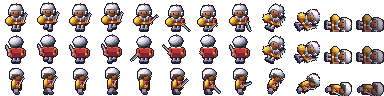
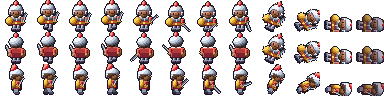
Видимая и слышимая стража: плюмажи и яркие табарды, значок щита, «Часовой», факелы ночью, цикл дня и ночи, звуки шагов/переклички/окрика/тревоги, стража на мини-карте

diff --git a/tools/gen/units.ts b/tools/gen/units.ts
@@ -25,6 +25,8 @@ export interface HSpec {
   cape?: Ramp;
   head?: "helmet" | "hat" | "hood" | "horns" | "feathers" | "darkhelm" | "witchhat" | "cap" | "none";
   headRamp?: Ramp;
+  /** Султан на шлеме (стража): яркий цвет города, виден издалека. */
+  plume?: Ramp;
   weapon?: "sword" | "axe" | "staff" | "bow" | "dagger" | "flamesword" | "skullstaff" | "claws" | "none";
   orb?: Ramp;
   shield?: Ramp;
@@ -318,7 +320,11 @@ export function drawHumanoid(spec: HSpec, view: View, pose: Pose, k = 1): PC {
         c.rect(L(hcx - headR + 1), L(eyeY - 1.2), L(headR * 2 - 1), L(1), hr[1]);
         if (spec.head === "darkhelm") c.poly([[L(hcx + 1), L(hcy - 4)], [L(hcx + 4), L(hcy - 10)], [L(hcx + 3.5), L(hcy - 3)]], P.bone[2]);
       } else if (spec.head === "darkhelm") for (const s of [-1, 1]) c.poly([[L(hcx + s * 4), L(hcy - 4)], [L(hcx + s * 8), L(hcy - 9)], [L(hcx + s * 5.5), L(hcy - 3)]], P.bone[2]);
-      if (spec.head === "helmet" && view !== "side") c.rect(L(hcx - 0.5), L(hcy - headR - 1.5), L(1), L(2), P.cloth.red[2]);
+      if (spec.head === "helmet" && spec.plume) {
+        const sx = view === "side" ? -2.2 : 0;
+        c.shadedEllipse(L(hcx + sx), L(hcy - headR - 1.6), L(view === "side" ? 2.6 : 1.7), L(3), spec.plume);
+        if (view === "side") c.shadedEllipse(L(hcx - 4), L(hcy - headR + 0.4), L(2), L(1.4), spec.plume);
+      } else if (spec.head === "helmet" && view !== "side") c.rect(L(hcx - 0.5), L(hcy - headR - 1.5), L(1), L(2), P.cloth.red[2]);
       break;
     }
     case "hat":
@@ -551,17 +557,17 @@ const SPECS: Record<string, HSpec> = {
   },
   /** Стражник Эмберхолла: латы, алый табард с золотом, шлем, меч и щит в цветах города. */
   guard: {
-    skin: P.skin, hair: P.hair.brown, hairStyle: "short", torso: ramp_("#5a1018", "#8a1c24", "#b8302e", "#e05a40"), legs: P.steel, boots: P.darkSteel, belt: P.gold,
-    head: "helmet", headRamp: P.steel, weapon: "sword", shield: ramp_("#6a4210", "#a8681c", "#e0a630", "#ffd864"), armorPlates: P.steel, cape: P.cloth.red, beard: P.hair.brown,
+    skin: P.skin, hair: P.hair.brown, hairStyle: "short", torso: ramp_("#7a1620", "#b02a30", "#e0463c", "#ff7a58"), legs: P.steel, boots: P.darkSteel, belt: P.gold,
+    head: "helmet", headRamp: P.steel, plume: ramp_("#8a1020", "#c82030", "#f04a48", "#ff9a88"), weapon: "sword", shield: ramp_("#6a4210", "#a8681c", "#e0a630", "#ffd864"), armorPlates: P.steel, cape: P.cloth.red, beard: P.hair.brown,
   },
   /** Стражи малых городов: тот же силуэт, цвета оазиса (песочный табард, бирюза) и долины (синий табард, мех). */
   guard_desert: {
-    skin: P.skin, hair: P.hair.black, hairStyle: "short", torso: ramp_("#7a4a14", "#b07424", "#d89c3c", "#f4c864"), legs: P.cloth.brown, boots: P.leather, belt: P.cloth.green,
-    head: "helmet", headRamp: P.gold, weapon: "sword", shield: ramp_("#1a4a48", "#2a7a74", "#46a89c", "#80d4c4"), armorPlates: P.gold, cape: ramp_("#1a4a48", "#2a7a74", "#46a89c", "#80d4c4"), beard: P.hair.black,
+    skin: P.skin, hair: P.hair.black, hairStyle: "short", torso: ramp_("#9a5c10", "#d89028", "#ffbe48", "#ffe088"), legs: P.cloth.brown, boots: P.leather, belt: P.cloth.green,
+    head: "helmet", headRamp: P.gold, plume: ramp_("#1a5a58", "#2a9a90", "#50d0c0", "#a0f0e0"), weapon: "sword", shield: ramp_("#1a4a48", "#2a7a74", "#46a89c", "#80d4c4"), armorPlates: P.gold, cape: ramp_("#1a4a48", "#2a7a74", "#46a89c", "#80d4c4"), beard: P.hair.black,
   },
   guard_snow: {
-    skin: P.skinPale, hair: P.hair.white, hairStyle: "short", torso: ramp_("#1a2a4a", "#2c4a7e", "#4a74b4", "#86aee0"), legs: P.cloth.blue, boots: P.leather, belt: P.leather,
-    head: "helmet", headRamp: P.steel, weapon: "sword", shield: P.wood, armorPlates: P.steel, cape: P.cloth.white, beard: P.hair.white,
+    skin: P.skinPale, hair: P.hair.white, hairStyle: "short", torso: ramp_("#1c3a78", "#3a68c8", "#5a94f0", "#a4cbff"), legs: P.cloth.blue, boots: P.leather, belt: P.leather,
+    head: "helmet", headRamp: P.steel, plume: ramp_("#a0b4d0", "#d0def0", "#f0f6ff", "#ffffff"), weapon: "sword", shield: P.wood, armorPlates: P.steel, cape: P.cloth.white, beard: P.hair.white,
   },
   citizen_desert: {
     skin: P.skin, hair: P.hair.black, hairStyle: "short", torso: P.cloth.rag, legs: P.cloth.rag, boots: P.leather, belt: P.cloth.red,

diff --git a/server/src/game/townfolk.ts b/server/src/game/townfolk.ts
@@ -66,6 +66,9 @@ interface Folk {
   foe: Mob | null;
   attackAt: number;
   sayAt: number;
+  /** Часовой у ворот: игрок уже рядом / когда можно окликнуть снова. */
+  nearP: boolean;
+  haltAt: number;
   syncAt: number;
 }
 
@@ -73,6 +76,9 @@ export class Townfolk {
   readonly folk: Folk[] = [];
   private scanAt = 0;
   private n = 0;
+  /** Таймеры города: перекличка на стенах и тревога (общая, чтобы не трубить на каждого моба). */
+  private callAt = new Map<Site, number>();
+  private alarmAt = new Map<Site, number>();
 
   constructor(private w: World) {
     for (const site of SITES) {
@@ -102,14 +108,14 @@ export class Townfolk {
   private add(site: Site, guard: boolean, x: number, y: number, post: Folk["post"], route: Folk["route"], who?: { name: string; sprite: string }): Folk {
     const u = new Unit();
     u.kind = guard ? UnitKind.Guard : UnitKind.Citizen;
-    u.name = guard ? site.guard.name : who!.name;
+    u.name = guard ? (post ? "Часовой" : site.guard.name) : who!.name;
     u.sprite = guard ? site.guard.sprite : who!.sprite;
     u.level = guard ? G.level : 1;
     u.hp = u.maxHp = 1;
     u.x = x;
     u.y = y;
     u.dir = post?.dir ?? Dir.Down;
-    const f: Folk = { id: `${guard ? "g" : "c"}${++this.n}`, site, unit: u, guard, x, y, dir: u.dir, anim: Anim.Idle, nav: new Nav(), post, route, idx: 0, waitUntil: 0, foe: null, attackAt: 0, sayAt: 0, syncAt: 0 };
+    const f: Folk = { id: `${guard ? "g" : "c"}${++this.n}`, site, unit: u, guard, x, y, dir: u.dir, anim: Anim.Idle, nav: new Nav(), post, route, idx: 0, waitUntil: 0, foe: null, attackAt: 0, sayAt: 0, nearP: false, haltAt: 0, syncAt: 0 };
     this.folk.push(f);
     this.w.state.mobs.set(f.id, u);
     return f;
@@ -125,6 +131,7 @@ export class Townfolk {
     if (t >= this.scanAt) {
       this.scanAt = t + 400;
       this.assignFoes();
+      this.voices(t);
     }
     for (const f of this.folk) {
       if (f.guard) this.updateGuard(f, dt);
@@ -158,10 +165,43 @@ export class Townfolk {
       if (!best) continue;
       best.foe = m;
       best.nav.reset();
-      if (this.w.time >= best.sayAt) {
+      if (this.w.time >= (this.alarmAt.get(site) ?? 0)) {
+        // тревога на весь город: колокол и рог у тех, кто рядом
+        this.alarmAt.set(site, this.w.time + 30000);
+        best.sayAt = this.w.time + 20000;
+        this.w.emit({ t: "say", id: best.id, text: "Тревога!", snd: "alarm" });
+      } else if (this.w.time >= best.sayAt) {
         best.sayAt = this.w.time + 20000;
         this.w.emit({ t: "say", id: best.id, text: best.site.guard.lines[Math.floor(Math.random() * best.site.guard.lines.length)] });
       }
+    }
+  }
+
+  /** Есть ли живой игрок в радиусе px от точки. */
+  private playerNear(x: number, y: number, px: number): boolean {
+    for (const p of this.w.players.values()) if (p.unit.anim !== Anim.Dead && Math.hypot(p.unit.x - x, p.unit.y - y) < px) return true;
+    return false;
+  }
+
+  /** Голоса стражи: окрик у ворот и перекличка на стенах (только если рядом есть игрок — трафик минимален). */
+  private voices(t: number) {
+    for (const f of this.folk) {
+      if (!f.guard || !f.post) continue;
+      const near = this.playerNear(f.x, f.y, 150);
+      if (near && !f.nearP && t >= f.haltAt) {
+        f.haltAt = t + 25000;
+        this.w.emit({ t: "say", id: f.id, text: "Стой, кто идёт!", snd: "halt" });
+      }
+      f.nearP = near;
+    }
+    for (const site of SITES) {
+      if (t < (this.callAt.get(site) ?? 0)) continue;
+      this.callAt.set(site, t + rnd(22000, 42000));
+      const posts = this.folk.filter((f) => f.site === site && f.guard && f.post && !f.foe);
+      if (!posts.length) continue;
+      const f = posts[Math.floor(Math.random() * posts.length)];
+      if (!this.playerNear(f.x, f.y, 700)) continue;
+      this.w.emit({ t: "say", id: f.id, text: Math.random() < 0.7 ? "Всё спокойно!" : "На посту всё тихо!", snd: "call" });
     }
   }
 

diff --git a/client/src/game/UnitView.ts b/client/src/game/UnitView.ts
@@ -5,6 +5,7 @@ import { RARITY_COLORS } from "../../../shared/items";
 import { net, type UnitState } from "../net";
 import { rankById } from "../../../shared/arena";
 import { DEPTH } from "./terrain";
+import { nightLevel } from "../../../shared/daynight";
 import { mountSprite } from "../../../shared/mounts";
 
 export const FONT = '"Rubik", "Trebuchet MS", sans-serif';
@@ -23,6 +24,10 @@ export class UnitView {
   titleText: Phaser.GameObjects.Text;
   frameGfx: Phaser.GameObjects.Graphics;
   mountSpr?: Phaser.GameObjects.Sprite;
+  /** Факел стражника ночью: пламя и мерцающее свечение. */
+  private torchGfx?: Phaser.GameObjects.Graphics;
+  private torchGlow?: Phaser.GameObjects.Image;
+  stepAt = 0;
   private mountId = "";
   private lastTitle = "";
   private lastColor = "";
@@ -219,6 +224,8 @@ export class UnitView {
     const showName = !this.dead && this.label.visible;
     this.titleText.setVisible(showName && !!u.title).setPosition(Math.round(this.x), Math.round(top - 13));
     this.frameGfx.clear();
+    if (u.kind === UnitKind.Guard && showName) this.guardBadge(top);
+    this.torch(!this.dead && u.kind === UnitKind.Guard && nightLevel(Date.now()) > 0.35);
     if (u.elite && showName) {
       const w = this.label.width + 6, h = 11;
       const fx = Math.round(this.x - w / 2), fy = Math.round(top - 4 - h + 1);
@@ -280,6 +287,33 @@ export class UnitView {
     }
   }
 
+  /** Значок щита слева от имени: цвет города (красный, бирюзовый, синий) со стальной каймой. */
+  private guardBadge(top: number) {
+    const c = this.u.sprite === "guard_desert" ? 0x2fb0a2 : this.u.sprite === "guard_snow" ? 0x4a8ae8 : 0xd02a34;
+    const bx = Math.round(this.x - this.label.width / 2 - 9), by = Math.round(top - 14);
+    const g = this.frameGfx;
+    g.fillStyle(0x120a10, 0.9).fillRect(bx - 1, by - 1, 9, 11).fillRect(bx, by + 9, 7, 1).fillRect(bx + 1, by + 10, 5, 1);
+    g.fillStyle(0xaab4c4, 1).fillRect(bx, by, 7, 8).fillRect(bx + 1, by + 8, 5, 1).fillRect(bx + 2, by + 9, 3, 1);
+    g.fillStyle(c, 1).fillRect(bx + 1, by + 1, 5, 7).fillRect(bx + 2, by + 8, 3, 1);
+    g.fillStyle(0xffe08a, 1).fillRect(bx + 3, by + 2, 1, 5).fillRect(bx + 2, by + 3, 3, 1);
+  }
+
+  /** Факел в руке: ночью с мерцающим светом (ADD), днём прячется. */
+  private torch(on: boolean) {
+    if (!on) { this.torchGfx?.setVisible(false); this.torchGlow?.setVisible(false); return; }
+    this.torchGfx ??= this.scene.add.graphics();
+    this.torchGlow ??= this.scene.add.image(0, 0, "fx_glow").setBlendMode(Phaser.BlendModes.ADD).setTint(0xff9a3a);
+    const dx = this.u.dir === Dir.Left ? -8 : this.u.dir === Dir.Up ? -7 : 8;
+    const hx = Math.round(this.x + dx), hy = Math.round(this.y - 13);
+    const t = this.scene.time.now, fl = 0.75 + Math.sin(t / 70 + this.x) * 0.12 + Math.sin(t / 130) * 0.1 + Math.random() * 0.06;
+    const g = this.torchGfx;
+    g.setVisible(true).setDepth(this.y + 1).clear();
+    g.fillStyle(0x4a2a10, 1).fillRect(hx, hy - 1, 2, 6);
+    g.fillStyle(0xff7a1a, 1).fillRect(hx - 1, hy - 4, 4, 3);
+    g.fillStyle(0xffd860, 1).fillRect(hx, hy - 5 + (fl > 0.8 ? 0 : 1), 2, 3);
+    this.torchGlow.setVisible(true).setPosition(hx + 1, hy - 3).setDepth(DEPTH.top - 12).setScale(2.2 * fl).setAlpha(0.55 * fl);
+  }
+
   hitTest(wx: number, wy: number): number {
     if (this.dead) return Infinity;
     const r = this.frame > 32 ? 30 : 14;
@@ -299,5 +333,7 @@ export class UnitView {
     this.stun?.destroy();
     this.titleText.destroy();
     this.frameGfx.destroy();
+    this.torchGfx?.destroy();
+    this.torchGlow?.destroy();
   }
 }

diff --git a/client/src/game/sfx.ts b/client/src/game/sfx.ts
@@ -1,5 +1,5 @@
 /** Процедурные звуки на WebAudio (без файлов). AudioContext стартует по первому действию игрока. */
-export type SfxName = "hit" | "crit" | "fire" | "frost" | "arrow" | "heal" | "shield" | "poison" | "explosion" | "slam" | "arcane" | "holy" | "shadow";
+export type SfxName = "hit" | "crit" | "fire" | "frost" | "arrow" | "heal" | "shield" | "poison" | "explosion" | "slam" | "arcane" | "holy" | "shadow" | "step" | "clink" | "call" | "halt" | "bell" | "horn";
 
 let ctx: AudioContext | null = null;
 let master: GainNode | null = null;
@@ -89,6 +89,27 @@ function noise(dur: number, vol: number, f0: number, f1: number, type: BiquadFil
   s.stop(t + dur + 0.02);
 }
 
+/** Голосоподобный возглас: слоги пилы через формантный фильтр. */
+function voice(v: number, pitches: number[], syl: number, _n: number) {
+  const c = ctx!;
+  pitches.forEach((f, i) => {
+    const t = c.currentTime + i * syl * 1.15;
+    const o = c.createOscillator(), fl = c.createBiquadFilter(), g = c.createGain();
+    o.type = "sawtooth";
+    o.frequency.setValueAtTime(f, t);
+    o.frequency.linearRampToValueAtTime(f * (i % 2 ? 0.85 : 1.15), t + syl);
+    fl.type = "bandpass";
+    fl.frequency.value = i % 2 ? 700 : 1100;
+    fl.Q.value = 3;
+    g.gain.setValueAtTime(0.001, t);
+    g.gain.linearRampToValueAtTime(v * 1.4, t + 0.02);
+    g.gain.exponentialRampToValueAtTime(0.001, t + syl);
+    o.connect(fl).connect(g).connect(master!);
+    o.start(t);
+    o.stop(t + syl + 0.02);
+  });
+}
+
 /** gain 0..1 — громкость по расстоянию/важности. Одинаковые звуки чаще раза в 50 мс не играются. */
 export function play(name: SfxName, gain = 1) {
   if (muted || volume <= 0 || gain <= 0.02 || !ctx || ctx.state !== "running" || !master) return;
@@ -109,6 +130,12 @@ export function play(name: SfxName, gain = 1) {
     case "slam": noise(0.4, v * 1.3, 600, 50, "lowpass"); tone("sine", 70, 25, 0.45, v * 1.2); break;
     case "arcane": tone("sine", 400, 1200, 0.18, v * 0.5); tone("triangle", 800, 1800, 0.14, v * 0.3, 0.04); break;
     case "holy": tone("sine", 880, 880, 0.2, v * 0.4); tone("sine", 1320, 1320, 0.25, v * 0.3, 0.06); break;
+    case "step": noise(0.06, v * 0.7, 700, 180, "lowpass"); tone("sine", 120 + Math.random() * 30, 60, 0.05, v * 0.4); break;
+    case "clink": tone("triangle", 2600 + Math.random() * 500, 2000, 0.07, v * 0.25); tone("square", 3900, 3000, 0.04, v * 0.12, 0.02); noise(0.05, v * 0.3, 7000, 4000, "highpass"); break;
+    case "call": voice(v, [150, 190, 170], 0.14, 3); break;
+    case "halt": voice(v * 1.2, [180, 230, 200, 150], 0.12, 4); break;
+    case "bell": for (let i = 0; i < 4; i++) { tone("sine", 660, 640, 0.5, v * 0.7, i * 0.32); tone("sine", 1320, 1300, 0.35, v * 0.3, i * 0.32); tone("triangle", 1980, 1950, 0.2, v * 0.12, i * 0.32); } break;
+    case "horn": tone("sawtooth", 196, 190, 0.7, v * 0.5); tone("sawtooth", 294, 290, 0.7, v * 0.35, 0.02); tone("sawtooth", 196, 185, 0.5, v * 0.5, 0.85); tone("sawtooth", 294, 280, 0.5, v * 0.35, 0.87); break;
     case "shadow": tone("sawtooth", 300, 80, 0.2, v * 0.4); noise(0.18, v * 0.5, 1500, 200, "bandpass"); break;
   }
 }

diff --git a/client/src/game/GameScene.ts b/client/src/game/GameScene.ts
@@ -3,6 +3,7 @@ import { MERCHANT_RANGE, PICKUP_RANGE, PLAYER_RADIUS, PLAYER_SPEED, TILE } from 
 import { generateMap, moveWithCollision, terrainSpeedMul, zoneAtPx, ZONES, type WorldMap, Zone } from "../../../shared/map";
 import { ENV } from "../../../shared/biomes";
 import * as sfx from "./sfx";
+import { nightLevel } from "../../../shared/daynight";
 import { Anim, BUFF_STEALTH, BUFF_ROOT, BUFF_SLOW, BUFF_STUN, UnitKind, type LootBag } from "../../../shared/protocol";
 import { activeSkills, SKILLS } from "../../../shared/skills";
 import { RUMOR_NPCS } from "../../../shared/rumors";
@@ -577,7 +578,15 @@ export class GameScene extends Phaser.Scene {
       }
       me.update(dt, this.pos.x, this.pos.y);
     }
-    for (const [id, v] of this.units) if (id !== net.id) v.update(dt);
+    for (const [id, v] of this.units) {
+      if (id !== net.id) v.update(dt);
+      // шаги и звон доспехов идущей стражи рядом (до ~20 тайлов, громкость по расстоянию)
+      if (v.u.kind === UnitKind.Guard && v.u.anim === Anim.Walk && !v.dead && now >= v.stepAt) {
+        const k = 1 - Math.hypot(v.x - this.pos.x, v.y - this.pos.y) / 640;
+        v.stepAt = now + 330 + Math.random() * 60;
+        if (k > 0.03) { sfx.play("step", k * 0.8); if (Math.random() < 0.28) sfx.play("clink", k * 0.7); }
+      }
+    }
     this.scenes?.update(this.pos.x, this.pos.y);
     if (this.targetId && !this.units.get(this.targetId)) this.targetId = null;
 
@@ -623,9 +632,12 @@ export class GameScene extends Phaser.Scene {
     }
     const cam = this.cameras.main;
     const tint = zoneTint(z);
-    const target = tint.dark;
+    // ночь (общий цикл по часам): затемнение и синева на поверхности, не в подземельях/арене/под водой
+    const night = z === Zone.Dungeon || z === Zone.Arena || z === Zone.Underwater || z === Zone.Volcano ? 0 : nightLevel(Date.now());
+    const target = Math.max(tint.dark, night * 0.5);
     const dark = this.world.dark;
-    dark.setFillStyle(tint.color, 1);
+    const nc = Phaser.Display.Color.Interpolate.ColorWithColor(Phaser.Display.Color.IntegerToColor(tint.color), Phaser.Display.Color.IntegerToColor(0x060a28), 100, Math.round(night * 100));
+    dark.setFillStyle(Phaser.Display.Color.GetColor(nc.r, nc.g, nc.b), 1);
     const cs = this.world.caustics;
     cs.setSize(cam.width, cam.height).setAlpha(cs.alpha + ((z === Zone.Underwater ? 0.3 : 0) - cs.alpha) * Math.min(1, dt * 2));
     cs.setTilePosition(now * 0.02, now * 0.012);

diff --git a/tests/screenshot.ts b/tests/screenshot.ts
@@ -102,6 +102,16 @@ async function main() {
       await page.evaluate(() => (window as any).__game.scene.getScene("game").cameras.main.setZoom(1));
       await sleep(1500);
       await page.screenshot({ path: path.join(OUT, "shot-town-wide.png") });
+      // ночь: сдвигаем часы страницы в середину ночной фазы цикла, смотрим на стражу у ворот
+      await page.evaluate(() => {
+        const o = Date.now.bind(Date), C = 20 * 60 * 1000;
+        const off = (0.82 * C - (o() % C) + C) % C;
+        Date.now = () => o() + off;
+        (window as any).__game.scene.getScene("game").cameras.main.setZoom(2);
+      });
+      await dbg(at(0, -15));
+      await sleep(2500);
+      await page.screenshot({ path: path.join(OUT, "shot-town-night.png") });
     } else if (scenario === "cities") {
       // малые города: ворота, площадь, жилой квартал, окна заданий и телепорта, общий вид
       const { CITIES } = await import("../shared/cities");

diff --git a/client/src/ui/hud.ts b/client/src/ui/hud.ts
@@ -925,9 +925,9 @@ export class Hud {
     for (const [, v] of info.units) {
       if (v.dead) continue;
       const near = Math.hypot(v.x - info.pos.x, v.y - info.pos.y) < 900;
-      if ((v.u.kind === UnitKind.Mob && !near) || v.u.kind === UnitKind.Guard || v.u.kind === UnitKind.Citizen) continue;
+      if ((v.u.kind === UnitKind.Mob && !near) || v.u.kind === UnitKind.Citizen) continue;
       const enemy = v.u.kind === UnitKind.Player && this.ctx.net.kind === "arena" && v.u.team !== this.ctx.net.arena?.team;
-      g.fillStyle = v.u.kind === UnitKind.Player ? (enemy ? "#ff6a5a" : "#6ac8ff") : v.u.kind === UnitKind.Boss ? "#ff3a1a" : "#e84a4a";
+      g.fillStyle = v.u.kind === UnitKind.Guard ? "#7a9cc8" : v.u.kind === UnitKind.Player ? (enemy ? "#ff6a5a" : "#6ac8ff") : v.u.kind === UnitKind.Boss ? "#ff3a1a" : "#e84a4a";
       const s = v.u.kind === UnitKind.Boss ? 3 : dot;
       g.fillRect(Math.floor(X(v.x)), Math.floor(Y(v.y)), s, s);
     }

diff --git a/shared/daynight.ts b/shared/daynight.ts
@@ -1,0 +1,12 @@
+/** Простой общий цикл дня и ночи по часам: у всех клиентов совпадает. */
+export const DAY_CYCLE_MS = 20 * 60 * 1000;
+
+/** Степень ночи 0..1 (0 — день; плавные сумерки). Ночь занимает последнюю часть цикла. */
+export function nightLevel(ms: number): number {
+  const p = (((ms % DAY_CYCLE_MS) + DAY_CYCLE_MS) % DAY_CYCLE_MS) / DAY_CYCLE_MS;
+  // 0..0.62 день, 0.62..0.72 закат, 0.72..0.92 ночь, 0.92..1 рассвет
+  if (p < 0.62) return 0;
+  if (p < 0.72) return (p - 0.62) / 0.1;
+  if (p < 0.92) return 1;
+  return 1 - (p - 0.92) / 0.08;
+}

diff --git a/client/src/game/effects.ts b/client/src/game/effects.ts
@@ -333,6 +333,14 @@ export class Effects {
         break;
       }
       case "say": {
+        if (f.snd) {
+          // звук у города: слышно в пределах ~20 тайлов, громкость по расстоянию; далеко — без реплики
+          const u = this.unit(f.id);
+          const k = u ? this.near(u.x, u.y, 640) : 0;
+          if (k <= 0) break;
+          if (f.snd === "alarm") { sfx.play("bell", k); sfx.play("horn", k * 0.8); }
+          else sfx.play(f.snd === "halt" ? "halt" : "call", k);
+        }
         this.onSay(f.id, f.text);
         break;
       }

diff --git a/shared/protocol.ts b/shared/protocol.ts
@@ -138,7 +138,7 @@ export type Fx =
   | { t: "chain"; pts: number[]; k?: string }
   | { t: "lvl"; id: string; level: number }
   | { t: "buff"; id: string; k: string; ms: number }
-  | { t: "say"; id: string; text: string }
+  | { t: "say"; id: string; text: string; /** звук у города: перекличка, окрик у ворот, тревога */ snd?: "call" | "halt" | "alarm" }
   | { t: "spawn"; id: string; k: string };
 
 export interface ChatLine {

diff --git a/PLAN.md b/PLAN.md
@@ -39,7 +39,7 @@
 - [x] 28. Меню по Escape — feature-dev. Esc сначала закрывает окна по одному, затем открывает игровое меню с затемнением: Продолжить, Персонаж, Инвентарь, Умения, Квесты, Бестиарий, Достижения, Друзья и гильдия, Карта, Настройки, Помощь, Сменить персонажа, Выйти из аккаунта. Под мини-картой оставить 4–5 самых частых кнопок (продолжение «нормального главного меню» из задачи 20).
 - [x] 29. Нормальный выход — feature-dev. «Сменить персонажа» — на выбор персонажа без выхода из аккаунта; «Выйти из аккаунта» — на вход. Подтверждение; в бою 10 с отсчёта, прерывается уроном. Корректное сохранение, исчезновение у других, отмена обменов и очередей.
 - [x] 30. Экран выбора и создания персонажей — core-engineer. Аккаунт с до 6 героями: превью с экипировкой, имя, класс, уровень, локация; Играть, Создать, Удалить (подтверждение вводом имени). Создание: уникальное имя (сервер), класс с описанием и превью, внешность. Пустые слоты «Создать героя». Общий склад аккаунта (если будет) — общий для всех. Перенос существующих персонажей без потерь.
-- [ ] 32. Видимая и слышимая стража — feature-dev. Заметная броня, факелы ночью, имя и значок. Звуки у города: шаги и звон доспехов, перекличка на стенах, «Стой, кто идёт!» у ворот, тревога и рог при нападении мобов; громкость от расстояния. Стража точками на мини-карте вблизи города.
+- [x] 32. Видимая и слышимая стража — feature-dev. Заметная броня, факелы ночью, имя и значок. Звуки у города: шаги и звон доспехов, перекличка на стенах, «Стой, кто идёт!» у ворот, тревога и рог при нападении мобов; громкость от расстояния. Стража точками на мини-карте вблизи города.
 - [ ] 33. Надёжный выход и переподключение — core-engineer. Окно «Переподключение…» с автоповтором; персонаж 30 с остаётся в мире. Возврат с теми же HP, маной, баффами, группой; обмены восстанавливаются или отменяются. Кнопка «Переподключиться» в меню Esc. Выход работает всегда, сервер сохраняет. Защита от двойного входа. Глобальный перехват ошибок: окно «Что-то пошло не так». Проверка (tester): обрыв в бою, в обмене, в подземелье, на арене; две вкладки; искусственная ошибка.
 - [ ] 34. Большая карта и особенности городов — core-engineer. Сильно расширить карту (между городами несколько минут пешком): деревни, лагеря мобов, руины, мосты, перекрёстки с указателями, места встреч; загрузка чанками. Особенности городов: стартовый — обучение, базовые торговцы, банк, гильдии; портовый — рыбалка, морские товары, корабль на остров, лучшие цены продажи; горный — лучший кузнец и +10, руда, зачарование, вход в подземелье; при желании лесной/магический — алхимия, подклассы, арена. Уникальные торговцы, квесты, NPC, стиль и музыка; телепорты после первого визита пешком.
 
